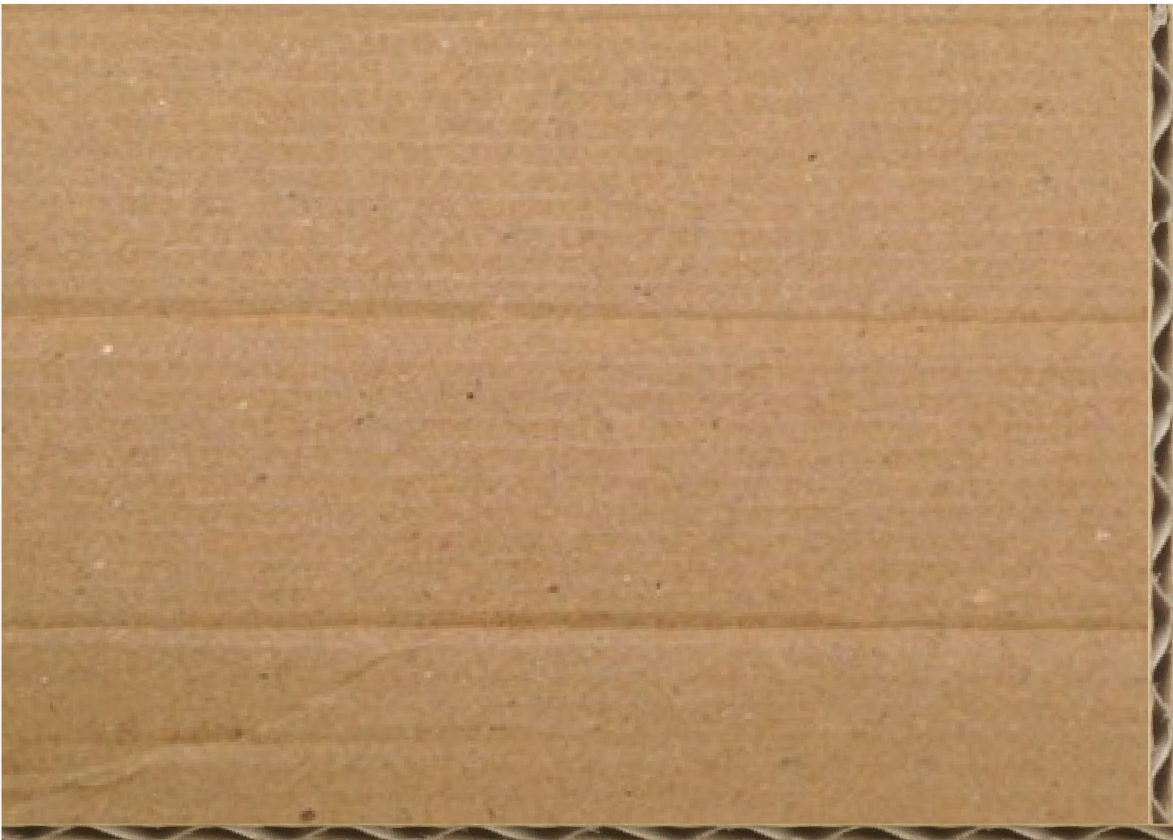
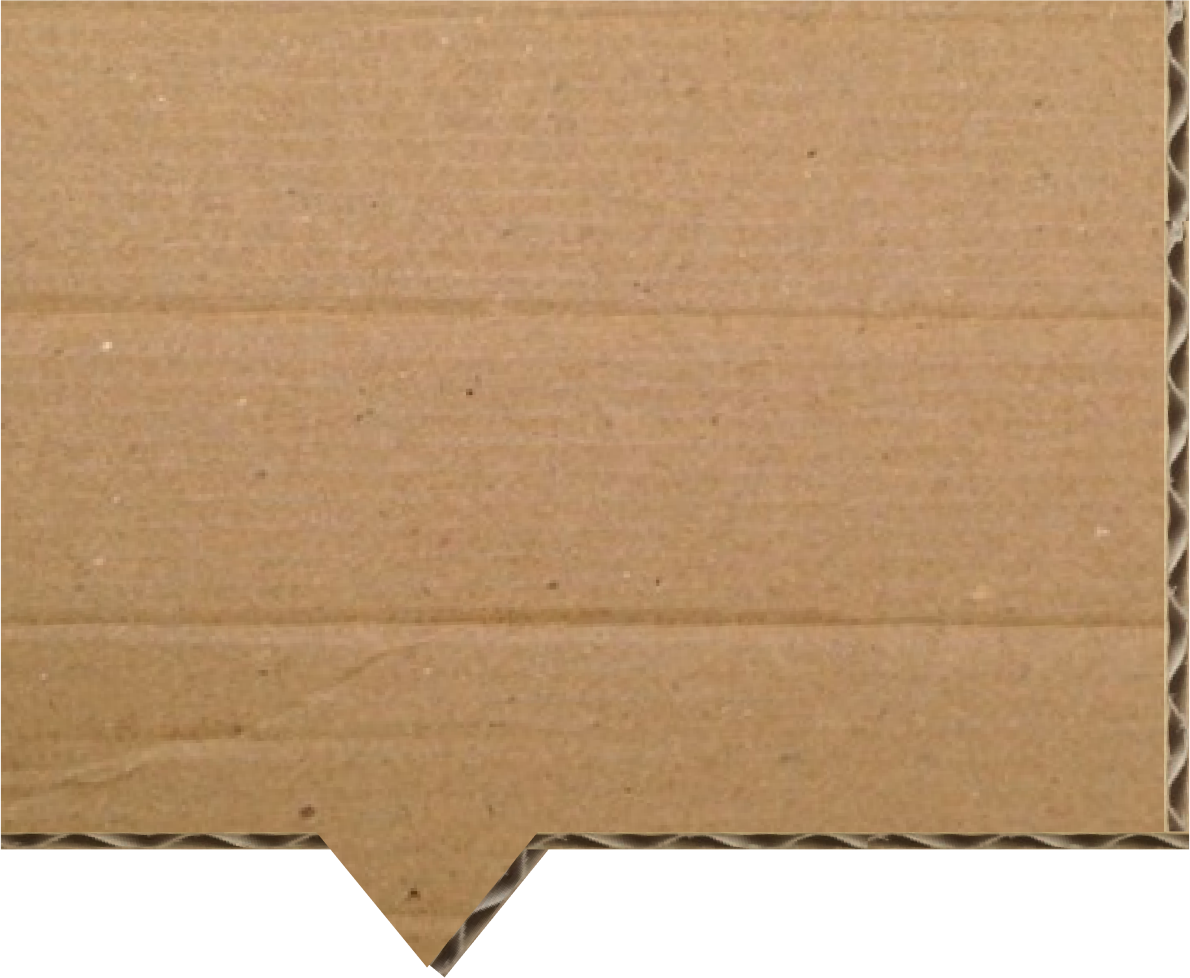
3 dingen

diff --git a/style.css b/style.css
@@ -12,7 +12,7 @@ body {
 	/*width: 100vw;*/
 	height: 100%;
 	margin: 40px 50px 0 50px;
-	background-image: url("img/background2.jpg");
+	background-image: url("img/background-3.jpg");
 	background-repeat: no-repeat;
 	background-position: center top;
  	background-size: 100% auto;
@@ -49,14 +49,15 @@ p {
 
 .text-container p {
 	margin-right: 50px;
-	font-size: 1.4em;
+	font-size: 1.2em;
 }
 
 .afval-container {
 	width: 500px;
 	height: 350px;
 	position: absolute;
-	margin-top: calc(90% - 750px);
+	margin-top: calc(90% - 670px);
+	margin-left: calc(10% - 100px);
 }
 
 .afval-container img {
@@ -67,8 +68,13 @@ p {
 	width: 350px;
 	height: 400px;
 	position: absolute;
-	margin-top: calc(55% - 500px);
-	margin-left: calc(80% - 350px);
+	margin-top: calc(65% - 600px);
+	margin-left: calc(70% - 380px);
+}
+
+.papierbak-container {
+	margin-top: calc(65% - 600px);
+	background-color: white;
 }
 
 .hover {
@@ -79,12 +85,20 @@ p {
 	/*background-color: #59b363;*/
 	position: absolute;
 	margin-top: 380px;
-	margin-left: 250px;
+	margin-left: 280px;
 }
 
 .hover img {
 	width: 40px;
 	height: 40px;
+}
+
+.hover-2 {
+	margin-left: 200px;
+}
+
+.hover-3 {
+	margin: 0 ;
 }
 
 .melding {
@@ -97,18 +111,25 @@ p {
 }
 
 .melding-1 {
+	margin: 50px 50px auto auto;
 	width: 350px;
 	height: 250px;
-	background-image: url("img/text-background2.png");
-}
-
-.melding-2 {
-	padding-bottom: 60px;
-	background-image: url("img/text-background-big2.png");
+	/*opacity: 100%;*/
+	background-image: url("img/text-background.png");
 }
 
 .melding-1 p {
 	margin-bottom: 15px;
+}
+
+.melding-2 {
+	padding-bottom: 90px;
+	background-image: url("img/text-background-big2.png");
+	/*opacity: 100%;*/
+}
+
+.melding-3 {
+
 }
 
 .big-text {

diff --git a/index.html b/index.html
@@ -18,7 +18,7 @@
 
     <section class="melding-container">
         <div class="hover">
-            <img src="img/muis2.png" alt="mouse icon">
+            <!-- <img src="img/muis2.png" alt="mouse icon"> -->
         </div>
         <div class="melding melding-1">
             <p>De gemiddelde Nederlander  gebruikt <span class="big-text">165 kilo</span> per jaar aan papier en karton.</p>
@@ -27,14 +27,22 @@
     </section>
 
     <section class="afval-container">
-        <div class="hover">
-            <img src="img/muis2.png" alt="mouse icon">
+        <div class="hover hover-2">
         </div>
         <div class="melding melding-2">
             <h2>Wat ligt er naast papierbakken?</h2>
             <img src="img/cirkeldiagram.png" alt="circle diagram">
         </div>
     </section>
+
+<!--     <section class="papierbak-container">
+        <div class="hover hover-3">
+        </div>
+        <div class="melding melding-3">
+            <h2>Recyclen in Nederland</h2>
+            <p>Dingee</p>
+        </div>
+    </section> -->
 
     <div class="height">
     </div>
